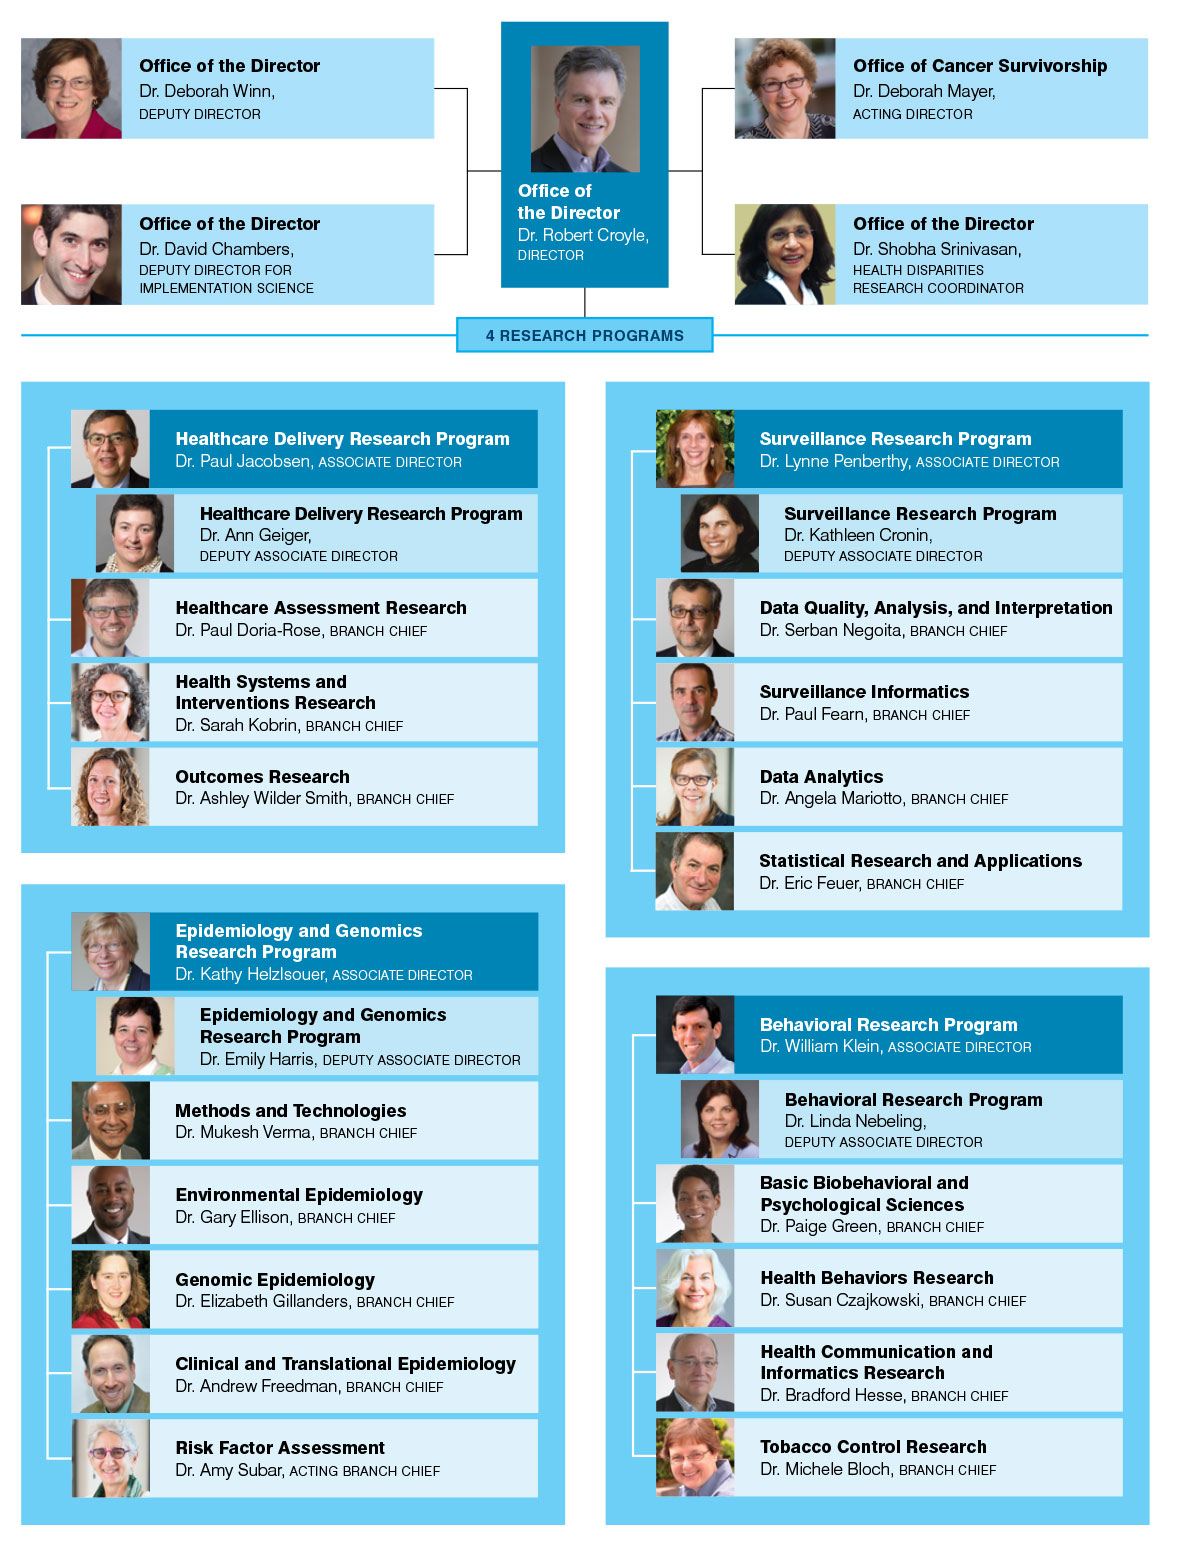
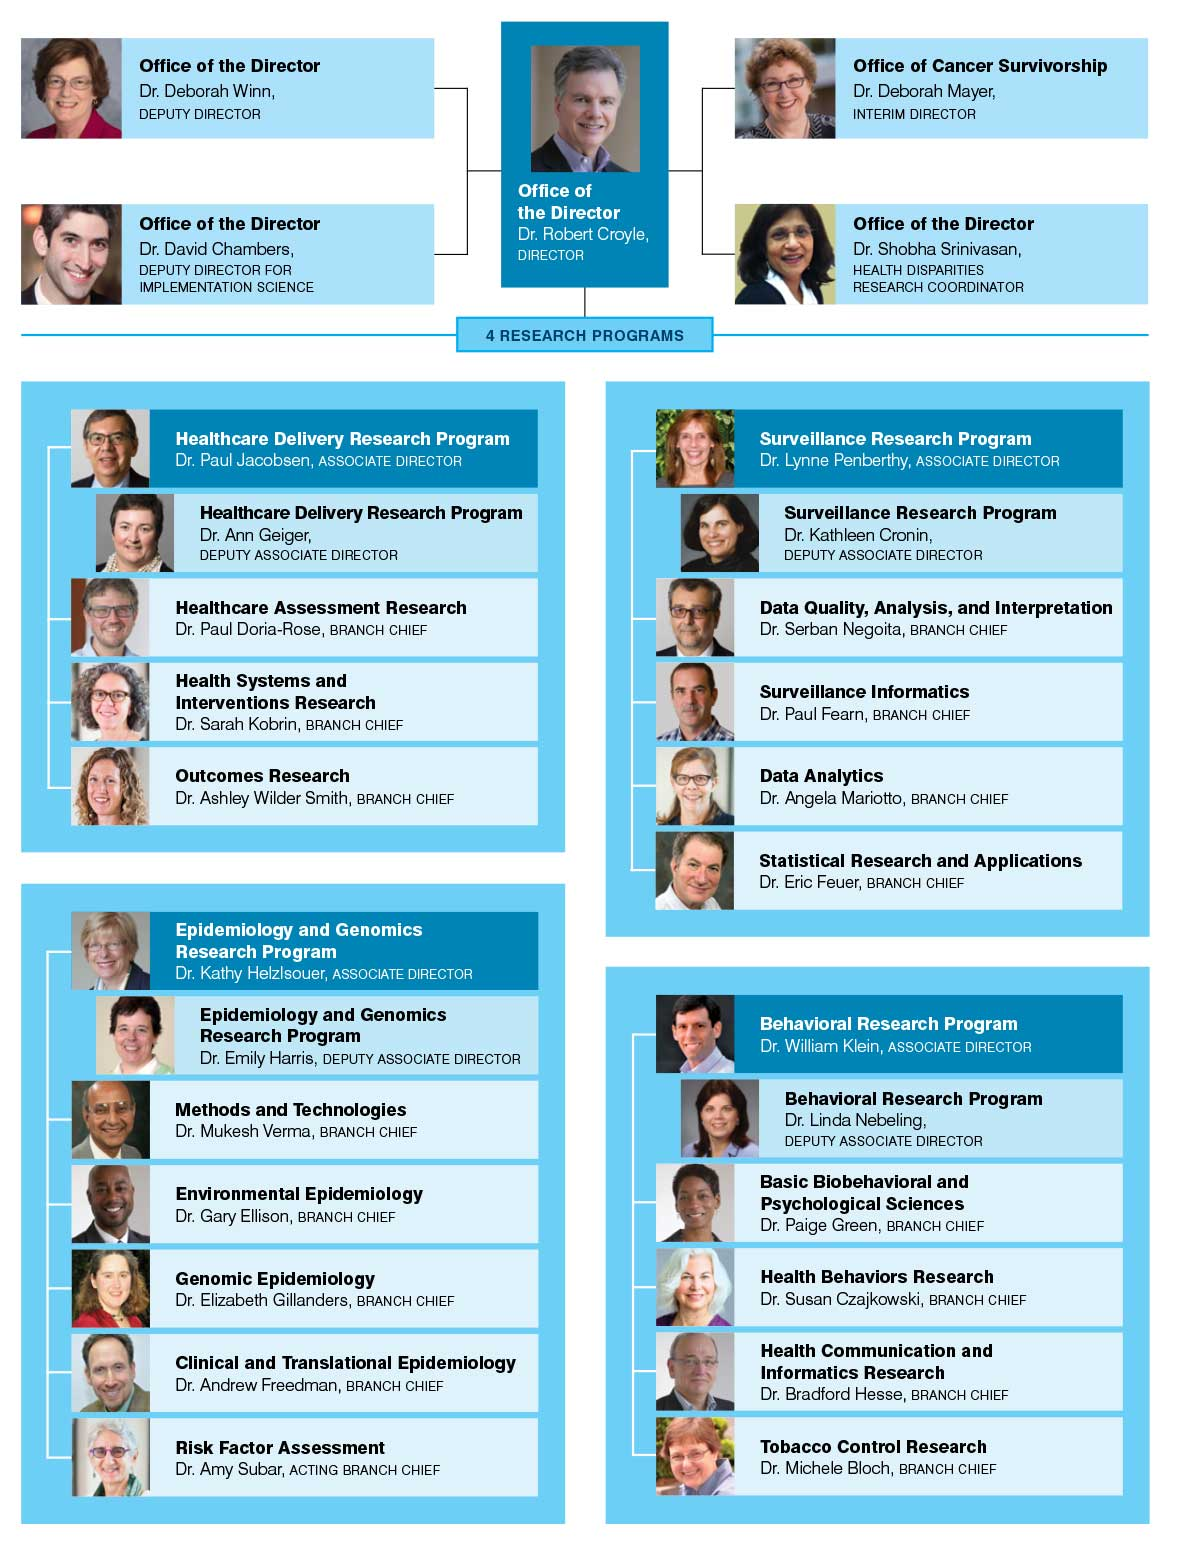
Org chart updates

diff --git a/bb/index.html b/bb/index.html
@@ -80,7 +80,7 @@ through a number of webinars and workshops.</p>
             <area shape="rect" coords="322,20,458,256" href="../od/dep_director_dw.html" alt="Deputy Director. Dr. Deborah Winn">
             <area shape="rect" coords="547,20,682,256" href="../IS/chambers.html" alt="Deputy Director for Implementation Science. Dr. David Chambers">
             <area shape="rect" coords="770,20,906,256" href="/od/srinivasan.html" alt="Dr. Shobha Sirnivasan, Health Disparities Research Coordinator">
-            <area shape="rect" coords="996,20,1132,256" href="/ocs/about/director-page.html" alt="Office of Cancer Survivorship. Deborah Mayer, Acting Director">
+            <area shape="rect" coords="996,20,1132,256" href="/ocs/about/director-page.html" alt="Office of Cancer Survivorship. Deborah Mayer, Interim Director">
             </map>
             <ul id="myTab" class="nav nav-pills nav-justified">
   <li id="egrp"><a href="#tab_a" data-toggle="pill"><span>Epidemiology and Genomics Research Program</span></a></li>

diff --git a/od/orgchart.html b/od/orgchart.html
@@ -278,7 +278,7 @@ height="0" width="0" style="display:none;visibility:hidden" title="Google Tag Ma
 				<area shape="rect" coords="52,679,407,742" href="https://epi.grants.cancer.gov/oad/" alt="Epidemiology &amp; Genomics Research Program - Kathy Helzlsouer, M.D., M.H.S., associate director">
 				<area shape="rect" coords="7,23,323,103" href="dep_director_dw.html" alt="Deputy Director Dr. Deborah M. Winn">
 				<area shape="rect" coords="373,10,505,217" href="view_rtc.html" alt="Officer of the Director Dr. Robert T Croyle, Director">
-				<area shape="rect" coords="551,26,865,103" href="/ocs/about/director-page.html" alt="Office of Cancer Survivorship - Dr. Deborah Mayer, Acting Director">
+				<area shape="rect" coords="551,26,865,103" href="/ocs/about/director-page.html" alt="Office of Cancer Survivorship - Dr. Deborah Mayer, Interim Director">
 			</map>
 		<!-- InstanceEndEditable -->
         </div> <!-- /.col-md-9 -->
